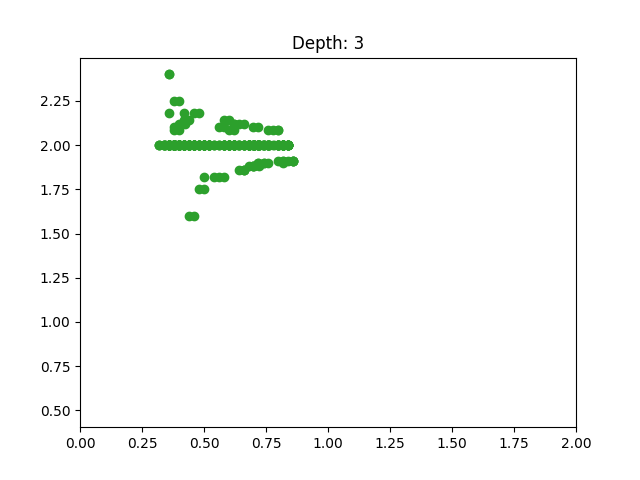
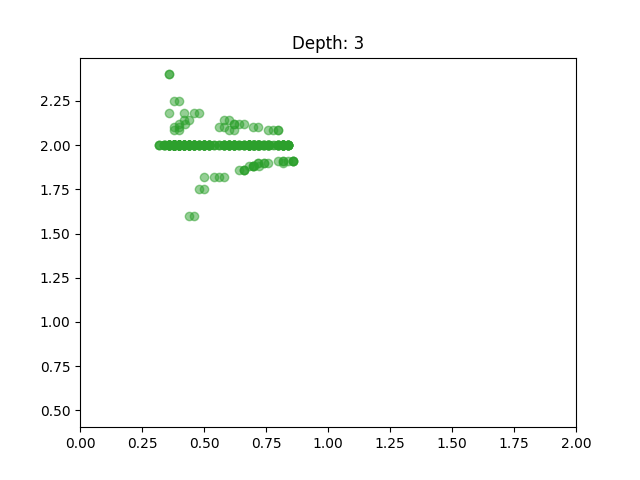
photos

Changed region(s): [[0.25, 0.125, 0.4688, 0.4062], [0.2812, 0.4375, 0.3125, 0.4688]]

diff --git a/DepthSearch/cruncher/cruncher.py b/DepthSearch/cruncher/cruncher.py
@@ -11,11 +11,11 @@ def scatter(xname, yname, file_paths):
     for depth in file_paths:
         for path in depth:
             file = pd.read_csv(path)
-            plt.scatter(file[xname], abs(file[yname]), color=colors[d - 1])
+            plt.scatter(file[xname], abs(file[yname]), alpha=0.5, color=colors[d - 1])
             
-            plt.xlim(0, 2)
+            plt.xlim(0, 50)
             plt.title(f"Depth: {d}")
-            plt.savefig(f"/home/cinnamon/Projects/Zenga/DepthSearch/cruncher/plot_fall_d{d}_magnified.png")
+            plt.savefig(f"/home/cinnamon/Projects/Zenga/DepthSearch/cruncher/plot_survive_d{d}.png")
             plt.clf()
 
         d += 1
@@ -47,4 +47,4 @@ def get_file_paths(maxdepth, fallen): # from depth 1
 
     return depths
 
-scatter("unity_time", "cog_value", get_file_paths(5, True))
+scatter("unity_time", "cog_value", get_file_paths(5, False))
